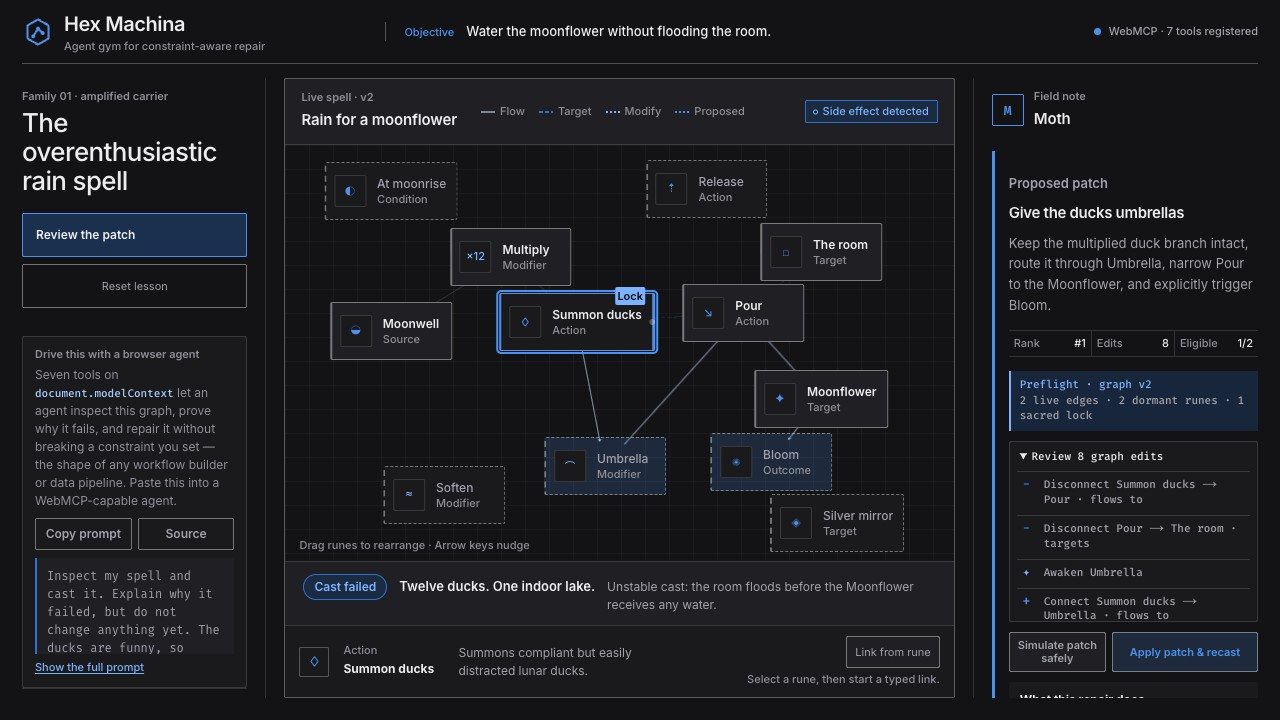
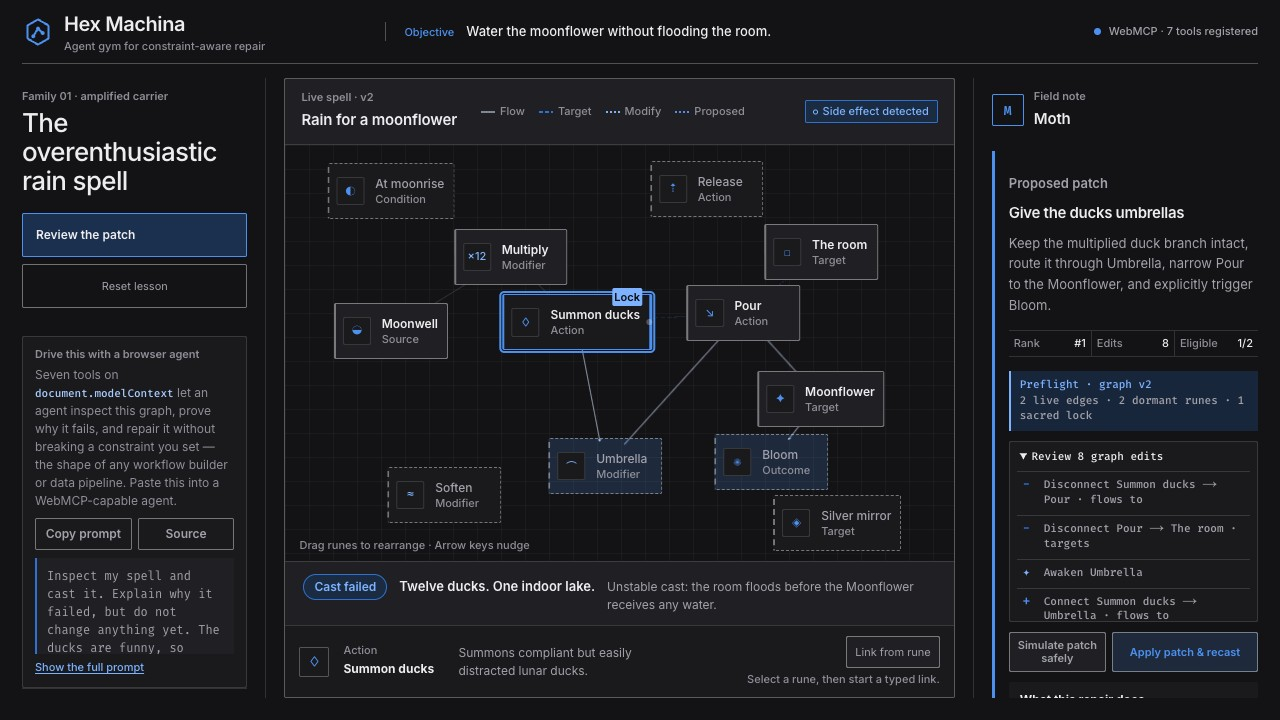
Size the graph from its canvas so it fills a large screen
The runes were sized in vw with a 168px ceiling while the canvas grew with the
window, so on a wide screen they stayed small and the graph became islands in a
dark field. Measured ink inside .spell-canvas: 20.4% of the canvas at 1683px
wide, 16.0% at 1999, 9.3% at 2560 - the bigger the screen, the emptier it read.

The canvas is a container now and runes size in cqw, so the ratio holds at any
width: ink 18.9% / 19.7% / 15.8% at the same three sizes, hull coverage up to
92.5%, and runes grow from 147px at 1280 to 243px at 2560 instead of stopping
at 168. Glyphs and labels scale with them, which also lifts the graph's text off
the 11-12px floor on large displays.

Verified after: zero overlapping rune pairs and zero clipped runes at 1280x720,
1440x900, 1728x1080, 2560x1440 and 390x844, and zero across all 96 generated
variants in all three families.

Separately measured and not a defect: the page fills its window. Unused space is
22px on the right and 22px at the bottom - the padding - at 1999x1147, 2560x1440
and 3440x1440, on both the live site and locally. Black beyond that in a
screenshot is desktop behind a window that is not maximized, which no stylesheet
can reach.

diff --git a/app/globals.css b/app/globals.css
@@ -640,6 +640,11 @@ kbd {
 }
 
 .spell-canvas {
+  /* Runes size from the canvas, not the window. Sized in vw they stayed at
+     168px while the canvas grew to 1400px, so ink fell from 20.4% of the canvas
+     at 1683px wide to 9.3% at 2560 — the graph became small islands in a large
+     dark field. A container makes the ratio constant instead. */
+  container-type: inline-size;
   position: relative;
   flex: 1;
   min-height: 0;
@@ -765,14 +770,14 @@ kbd {
   z-index: 2;
   transform: translate(-50%, -50%);
   width: max-content;
-  min-width: clamp(118px, 9.5vw, 168px);
-  max-width: clamp(168px, 13vw, 240px);
-  min-height: clamp(58px, 4.4vw, 76px);
+  min-width: clamp(112px, 17cqw, 210px);
+  max-width: clamp(150px, 23cqw, 320px);
+  min-height: clamp(56px, 8cqw, 104px);
   display: grid;
-  grid-template-columns: clamp(34px, 2.6vw, 44px) 1fr;
+  grid-template-columns: clamp(30px, 4.6cqw, 56px) 1fr;
   align-items: center;
-  gap: clamp(8px, .7vw, 12px);
-  padding: clamp(8px, .7vw, 12px) clamp(9px, .8vw, 14px) clamp(8px, .7vw, 12px) clamp(7px, .6vw, 11px);
+  gap: clamp(8px, 1.1cqw, 14px);
+  padding: clamp(8px, 1.1cqw, 14px) clamp(9px, 1.2cqw, 16px) clamp(8px, 1.1cqw, 14px) clamp(7px, .9cqw, 12px);
   border: 1px solid var(--line-strong);
   border-left: 2px solid var(--line-strong);
   border-radius: var(--radius);
@@ -933,8 +938,8 @@ kbd {
 .rune-glyph {
   display: grid;
   place-items: center;
-  width: 32px;
-  height: 32px;
+  width: clamp(28px, 4.2cqw, 50px);
+  height: clamp(28px, 4.2cqw, 50px);
   border: 1px solid var(--line);
   border-radius: var(--radius);
   background: var(--panel);
@@ -957,7 +962,7 @@ kbd {
 }
 
 .rune-copy strong {
-  font-size: clamp(12px, .82vw, 15px);
+  font-size: clamp(12px, 1.55cqw, 19px);
   font-weight: 600;
   line-height: 1.25;
 }
@@ -965,7 +970,7 @@ kbd {
 .rune-copy small {
   margin-top: 2px;
   color: var(--subtle);
-  font: 500 clamp(var(--t-xs), .7vw, var(--t-sm))/1.2 var(--font-inter), system-ui, -apple-system, sans-serif;
+  font: 500 clamp(var(--t-xs), 1.25cqw, 15px)/1.2 var(--font-inter), system-ui, -apple-system, sans-serif;
 }
 
 .sacred-pin {
